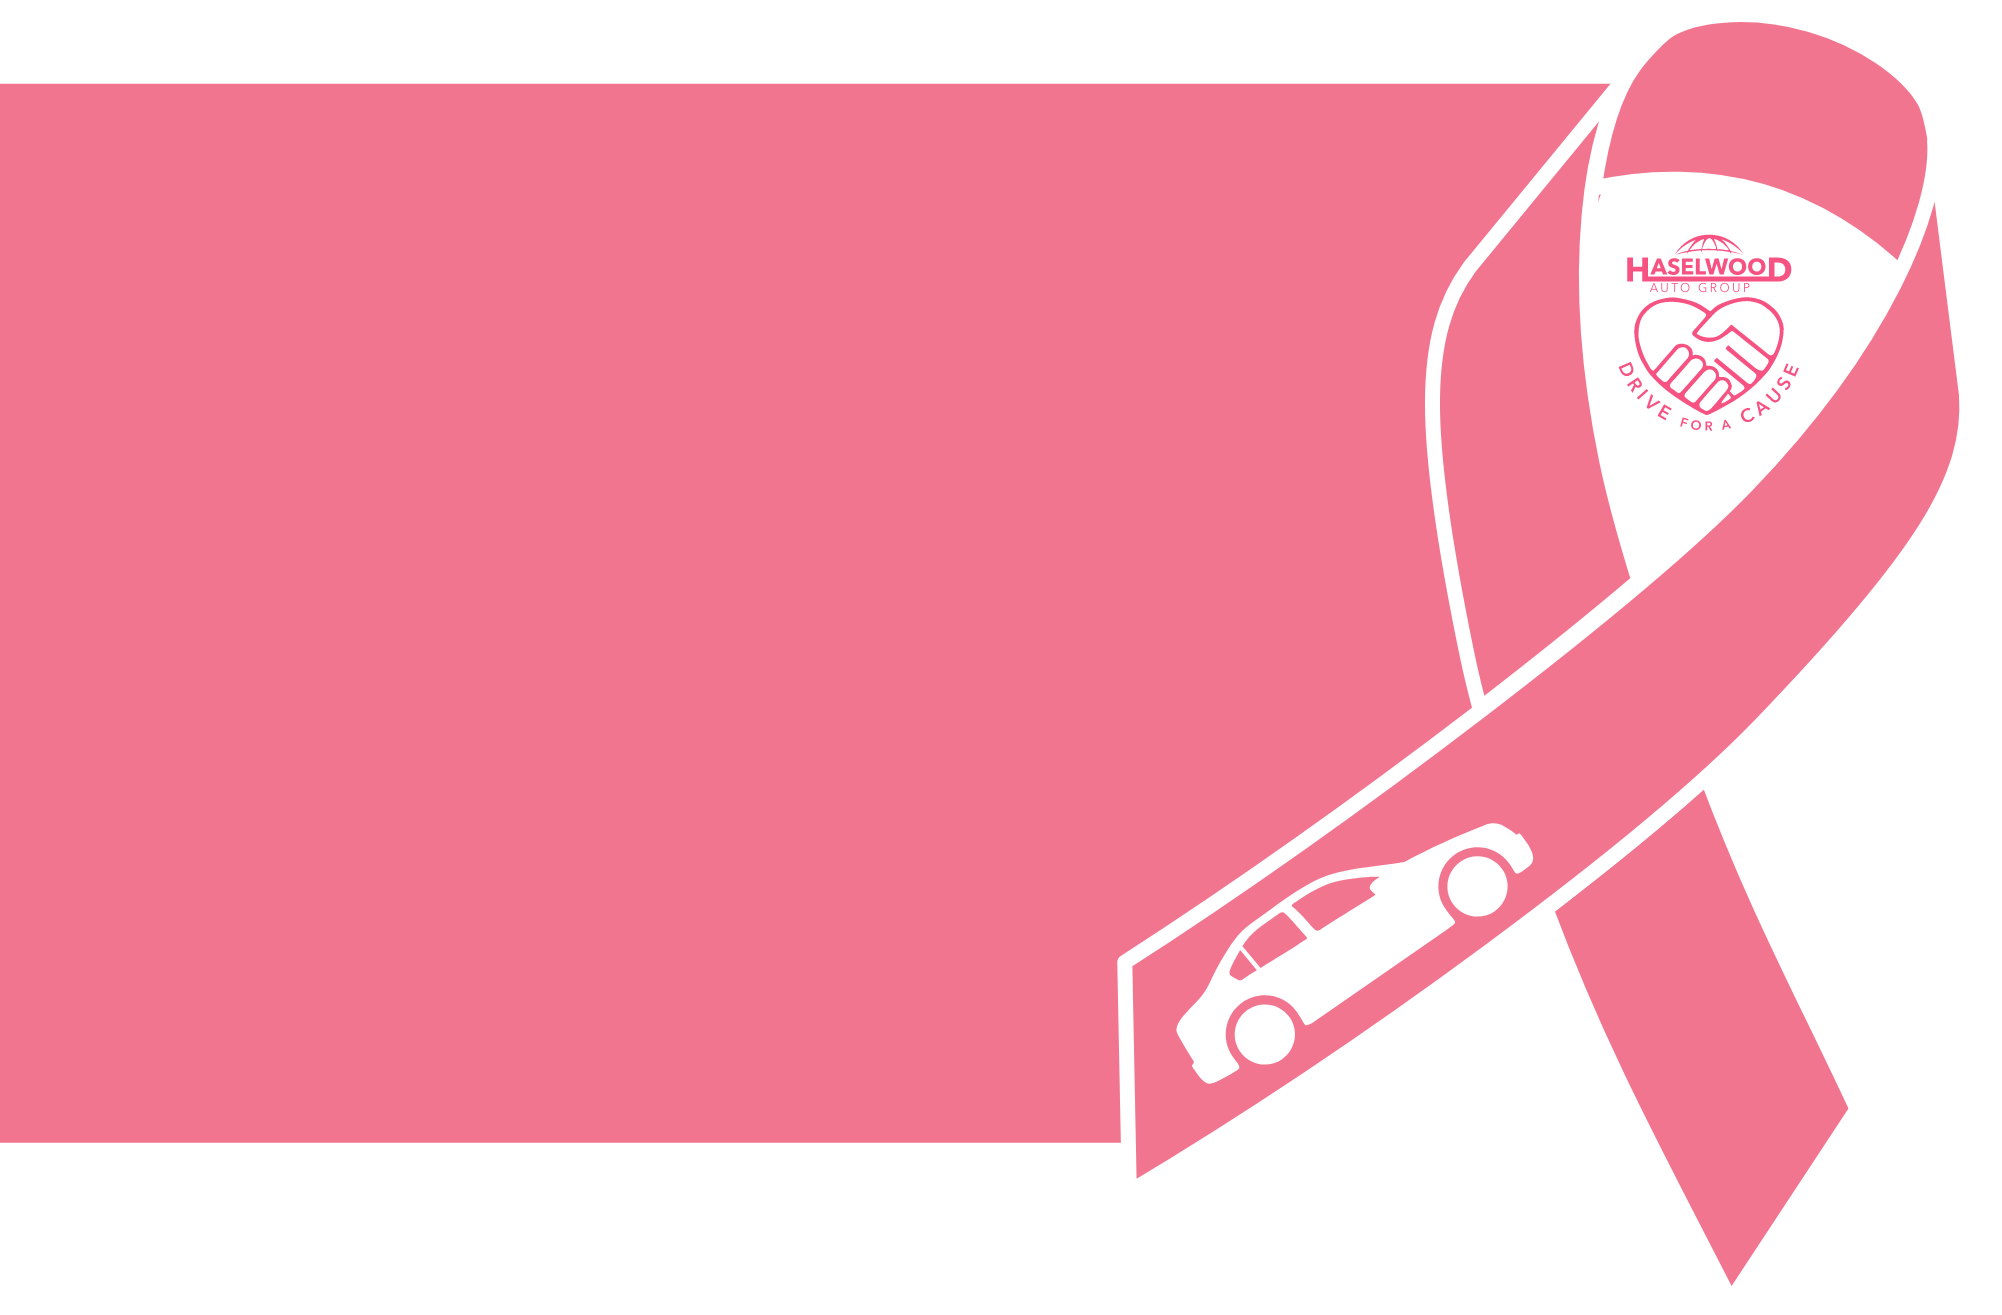
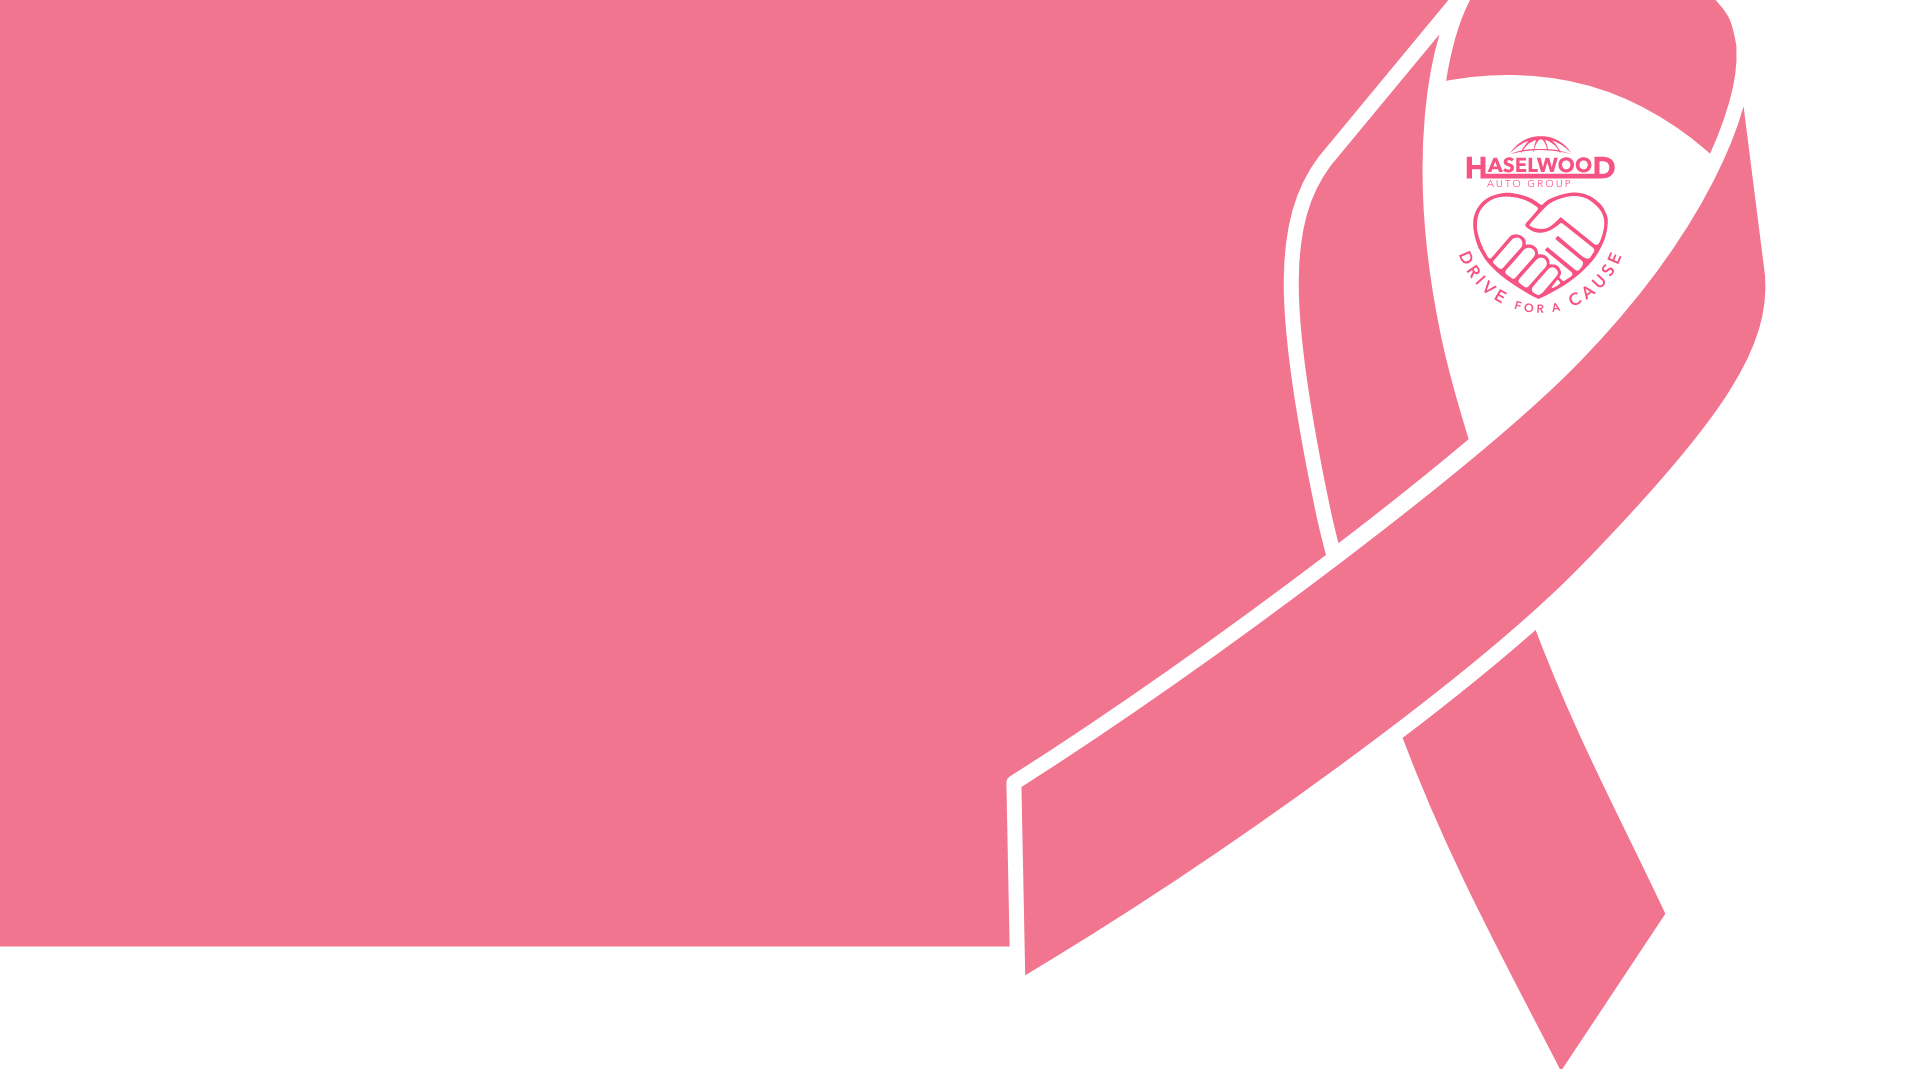
Desktop Hero Fixed.
Updated the desktop hero with a new image, and fixed sizing.

Changed region(s): [[0.0, 0.0, 1.0, 1.0]]

diff --git a/main.css b/main.css
@@ -4,8 +4,8 @@
  }
 
 #landing_container{
-    width: 100%;
-    height: 100%;
+    width: 1920px;
+    height: auto;
     margin-left: auto;
     margin-right: auto;
 }
@@ -27,8 +27,8 @@
 .hero_logo{
     width: 700px;
     height: 400px;
-    margin-top: 150px;
-    margin-left: 100px;
+    margin-top: 125px;
+    margin-left: 200px;
 
 }
 
@@ -37,7 +37,7 @@
     line-height: 200%;
     font-family: 'Montserrat', sans-serif;
     margin-top: 75px;
-    margin-left: 100px;
+    margin-left: 200px;
     font-weight: normal;
     font-size: 20px;
     text-align: left;
@@ -45,9 +45,9 @@
 }
 
 .donate_button{
-    width: 287px;
-    height: 84px;
-    margin-left: 100px;
+    width: 211px;
+    height: 45px;
+    margin-left: 200px;
     margin-top: 50px;
     background: #993856 0% 0% no-repeat padding-box;
     box-shadow: 0px 15px 20px #00000029;
@@ -57,9 +57,33 @@
     text-align: center;
     font-family: 'Montserrat', sans-serif;
     font-weight: bold;
-    font-size: 28px;
+    font-size: 18px;
     letter-spacing: 0px;
     color: #FFFFFF;
+}
+
+@media only screen and (max-width: 1440px) {
+
+    #landing_container{
+        width: 1280px;
+        margin-left:0;
+        margin-right:0;
+    }
+
+    .hero{
+        width: 1440px;
+        height: 1220px;
+        display: block;
+        margin-left: auto;
+        margin-right: auto;
+        background-image: url(Hero-background.png);
+        background-repeat: no-repeat;
+        background-position: center;
+        background-size: cover;
+        position: relative;
+    
+    }
+
 }
 
 

diff --git a/index.html b/index.html
@@ -22,8 +22,8 @@
             <a href="https://www.google.com/"><button class="donate_button"> Donate Here</button></a>
         </div>
         <!-- Donation box-->
-        <div>
-            <h3>IN THE MONTH OF OCTOBER:</h3>
+        <div class="donation_box">
+            <h3 class="donation_h">IN THE MONTH OF OCTOBER:</h3>
         </div>
         <!-- Fred Hutch -->
         <div>
